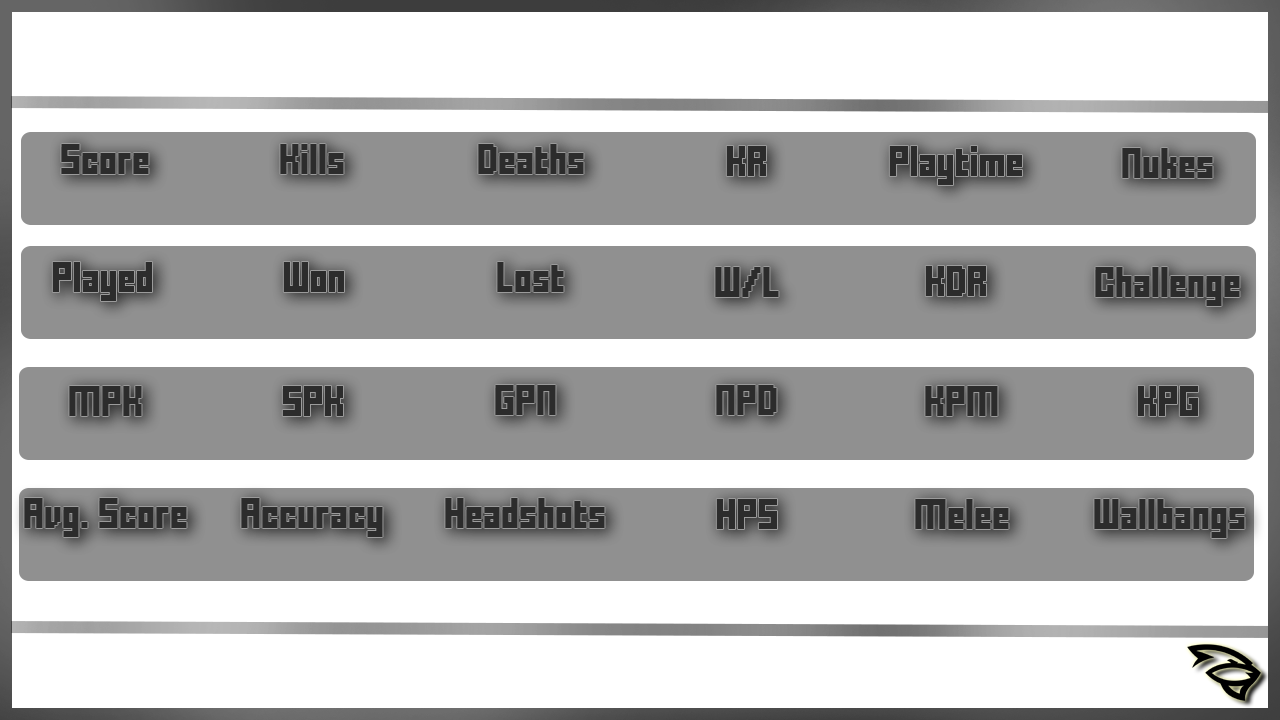
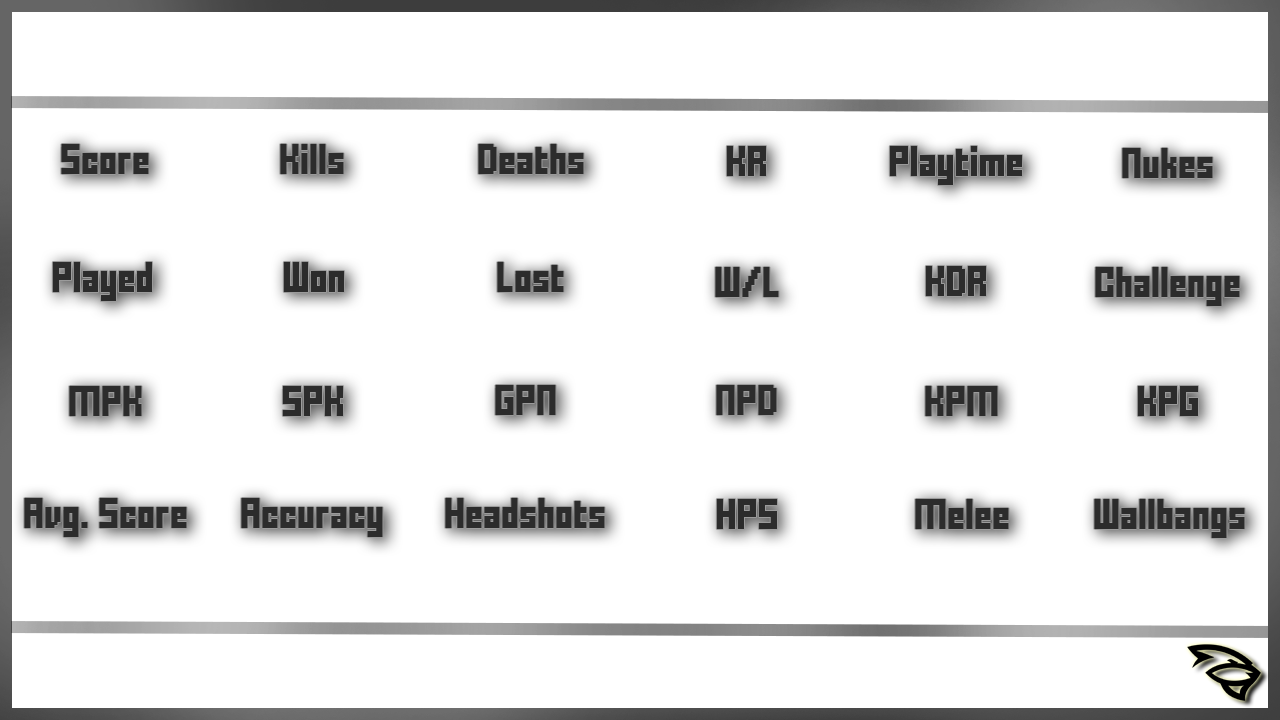
v.cbg

diff --git a/main.py b/main.py
@@ -27,6 +27,9 @@ bot.refr = {}
 bot.links = {}
 bot.data = {}
 bot.userdata = {}
+bot.bgdata = {}
+bot.unsaved = {}
+bot.already = []
 bot.dev = ""
 economyerror = "❌"
 economysuccess = "✅"
@@ -42,7 +45,7 @@ bot.uptime = time.time()
 bot.reqs = 0
 bot.pause = False
 
-@bot.check
+#@bot.check
 async def if_allowed(ctx):
     return await check_channel(ctx.channel.id)
 
@@ -290,6 +293,32 @@ async def spam_protect(userid):
             return 'warn'
     else:
         return 'ok'
+
+async def sendnew(ctx, vntadat):
+    curset = f"1. Headings Color- {vntadat['hd']}\n" \
+             f"2. Stats Color- {vntadat['st']}\n" \
+             f"3. Motto Text- {vntadat['mt']}\n" \
+             f"4. Username Color- {vntadat['us']}"
+    embed = discord.Embed(title="⚙ VNTA Profile Background",
+                          description="Current Settings:\n" \
+                                      f"```less\n{curset}```\n"
+                                      "__Choose the below options to modify the background:__\n\n" \
+                                      "`modify 1` - Change background image\n" \
+                                      "`modify 2` - Change headings color\n" \
+                                      "`modify 3` - Change stats color\n" \
+                                      "`modify 4` - Change background motto\n" \
+                                      "`modify 5` - Change username color",
+                          color=embedcolor)
+    embed.set_image(url="attachment://profile.png")
+    file = await profile(ctx, ign="AwesomeSam", via=True)
+    embed.set_footer(text="Type 'save' to save background\nType 'cancel' to cancel all changes")
+    await ctx.send(embed=embed, file=file)
+
+async def savebgdata():
+    with open("bgdata.json", "w") as f:
+        f.write(json.dumps(bot.bgdata, indent=2))
+    chl = bot.get_channel(854698116255318057)
+    await chl.send(file=discord.File("bgdata.json"))
 
 staffchl = [813447381752348723, 854008993248051230]
 @bot.command()
@@ -576,7 +605,7 @@ async def contract(ctx, *, ign=None):
 
 @bot.command(aliases=["p", "pf"])
 @commands.check(general)
-async def profile(ctx, *, ign=None):
+async def profile(ctx, *, ign=None, via=False):
     if ign is None:
         ign = bot.links.get(str(ctx.author.id))
         if ign is None:
@@ -596,8 +625,19 @@ async def profile(ctx, *, ign=None):
                                       color=error_embed)
                 embed.set_footer(text=f"Bot by {bot.dev} | #vantalizing")
                 return await ctx.reply(embed=embed)
-    data = requests.get(f"https://kr.vercel.app/api/profile?username={ign}")
-    userdata = json.loads(data.text)
+    bgdata = {}
+    found = False
+    for i in bot.bgdata.keys():
+        if i.lower() == ign.lower():
+            bgdata = bot.bgdata[i]
+            found = True
+            break
+    if not found:
+        bgdata = bot.bgdata["vntasam123"]
+
+    #data = requests.get(f"https://kr.vercel.app/api/profile?username={ign}")
+    #userdata = json.loads(data.text)
+    userdata = {'success': True, 'data': {'username': 'AwesomeSam', 'id': 8570737, 'clan': 'VNTA', 'clanRank': 6, 'kills': 82112, 'deaths': 41107, 'wins': 2871, 'score': 9299165, 'level': 91, 'levelPercentage': {'percent': 48.22, 'current': 98053.89, 'max': 203333.33}, 'games': 5830, 'funds': 3533, 'hacker': False, 'verified': False, 'infected': True, 'partner': 1, 'premium': -17955973000, 'premiumName': 'AwesomeSam', 'timePlayed': 1243629476, 'createdAt': '2019-12-19T07:56:22.000Z', 'stats': {'c': 5, 's': 1348599, 'h': 311836, 'c0': 3845230, 'r2': 3815, 'c1': 1753660, 'c2': 1944840, 'mk': 957, 'c5': 563205, 'c4': 91655, 'c8': 145775, 'c7': 66375, 'r3': 20, 'c12': 107410, 'hs': 49704, 'wb': 586, 'flg': 94, 'c9': 75640, 'c11': 336455, 'c6': 37865, 'c3': 131965, 'abR': 1605354754870, 'n': 34, 'chgP': '19:0,0,30,1000', 'anp': 0, 'c13': 274540, 'r4': 18, 'tk': 71, 'fk': 105, 'tmk': 1081, 'r1': 8, 'ast': 1203, 'ls': 741, 'ad': 57, 'spry': 9, 'sad': 1, 'cad': 1}, 'challenge': 19, 'twitch': 'awesomesamaksh', 'elo': 49.58, 'elo2': 0, 'elo4': None, 'followers': 303, 'following': 70, 'region': 2, 'eventCount': None, 'mods': [], 'maps': [{'name': 'Hell_Parkour', 'id': 119179, 'info': {'t': 1}, 'votes': 30, 'verified': None, 'createdAt': '2021-02-03T07:18:50.000Z', 'creator': 'AwesomeSam'}], 'assets': [], 'skins': []}, 'time': 0.169}
     if not userdata["success"]:
         return await ctx.reply(userdata["error"])
     userdata = userdata["data"]
@@ -636,20 +676,51 @@ async def profile(ctx, *, ign=None):
     spk = "{:.2f}".format(score/kills)
     avgscore = int(score/played)
     accuracy = "{:.2f}%".format((hits/shots)*100)
-    statsoverlay = Image.open("bgs/stats.png")
-    bgimage = Image.open("bgs/vnta.png").crop((0, 0, 1280, 720))
+    statsoverlay = Image.new("RGBA", (1280, 720))
+    borders = Image.open("bgs/borders.png")
+
+    if bgdata["ov"]:
+        overlay = Image.open("bgs/overlay.png")
+        borders.paste(overlay, (0, 0), overlay)
+
+    statsoverlay.paste(borders, (0, 0))
+
+    # ============ DRAWING STARTS ==============
+    order = [["Score", "Kills", "Deaths", "KR", "Playtime", "Nukes"],
+             ["Played", "Won", "Lost", "W/L", "KDR", "Challenge"],
+             ["MPK", "SPK", "GPN", "NPD", "KPM", "KPG"],
+             ["Avg. Score", "Accuracy", "Headshots", "HPS", "Melee", "Wallbangs"]]
+    draw = ImageDraw.Draw(statsoverlay)
+    shadow = Image.new("RGBA", statsoverlay.size)
+    draw2 = ImageDraw.Draw(shadow)
+    font = ImageFont.truetype("bgs/font.ttf", 20)
+    font2 = ImageFont.truetype("bgs/font.ttf", 40)
+    font3 = ImageFont.truetype("bgs/font.ttf", 26)
+    font4 = ImageFont.truetype("bgs/font.ttf", 22)
+
+    yloc = 148
+    for row in order:
+        xloc = 105
+        for stat in row:
+            size = font4.getsize(str(stat))[0]
+            draw2.text((xloc - (size / 2), yloc), str(stat), font=font4, fill=(0, 0, 0))
+            xloc += 214
+        yloc += 119
+
+    yloc = 148
+    for row in order:
+        xloc = 105
+        for stat in row:
+            size = font4.getsize(str(stat))[0]
+            draw.text((xloc - (size / 2), yloc), str(stat), font=font4, fill=tuple(bgdata["hd"]))
+            xloc += 214
+        yloc += 119
+    bgimage = Image.open(f"bgs/{bgdata['file']}").resize((1280, 720))
     bgimage = bgimage.convert("RGBA")
     order = [[score, kills, deaths, kr, timeplayed, nukes],
               [played, wins, loses, wl, kdr, challenge],
               [mpk, spk, gpn, npd, kpm, kpg],
               [avgscore, accuracy, headshots, hps, melee, wallbangs]]
-    draw = ImageDraw.Draw(statsoverlay)
-    font = ImageFont.truetype("bgs/font.ttf", 20)
-    font2 = ImageFont.truetype("bgs/font.ttf", 40)
-    font3 = ImageFont.truetype("bgs/font.ttf", 26)
-    shadow = Image.new("RGBA", statsoverlay.size)
-    draw2 = ImageDraw.Draw(shadow)
-
 
     if challenge > 20:
         fill = (255, 43, 43)
@@ -676,7 +747,7 @@ async def profile(ctx, *, ign=None):
             draw2.text((xloc-(size/2), yloc), str(stat), font=font, fill=(0,0,0))
             xloc += 214
         yloc += 119
-    draw2.text((35, 32), str(level), fill=(0,0,0), font=font2)
+    #draw2.text((35, 32), str(level), fill=(0,0,0), font=font2)
 
     shadow = shadow.filter(ImageFilter.GaussianBlur(radius=2))
     shadow = shadow.filter(ImageFilter.GaussianBlur(radius=4))
@@ -686,7 +757,7 @@ async def profile(ctx, *, ign=None):
         xloc = 104
         for stat in row:
             size = font.getsize(str(stat))[0]
-            draw.text((xloc - (size / 2), yloc), str(stat), font=font, fill=(222, 222, 222))
+            draw.text((xloc - (size / 2), yloc), str(stat), font=font, fill=tuple(bgdata["st"]))
             xloc += 214
         yloc += 119
     rank = userdata["clanRank"]
@@ -708,10 +779,9 @@ async def profile(ctx, *, ign=None):
         clancolor = (68, 255, 25)
     elif clan == "DEV":
         clancolor = (25, 191, 255)
-    elif clan == "VNTA":
-        draw.text((960, 655), "#vantalizing", fill=(36, 36, 36), font=font3)
+    draw.text((1173-font3.getsize(bgdata['mt'])[0], 655), bgdata["mt"], fill=(36, 36, 36), font=font3)
     draw.text((35, 32), str(level), fill=fill, font=font2)
-    draw.text((65+font2.getsize(str(level))[0], 32), str(username), fill=(36, 36, 36), font=font2)
+    draw.text((65+font2.getsize(str(level))[0], 32), str(username), fill=tuple(bgdata["us"]), font=font2)
     draw.text((85+font2.getsize(str(level))[0]+font2.getsize(str(username))[0], 32), f"[{clan}]", fill=clancolor, font=font2)
     draw.text((120, 655), user, font=font3, fill=(36, 36, 36))
     dis_logo = Image.open("bgs/discord.png").resize((69, 69))
@@ -725,7 +795,10 @@ async def profile(ctx, *, ign=None):
     image_bytes.seek(0)
     statsoverlay.close()
     bgimage.close()
-    await ctx.send(file=discord.File(image_bytes, filename="profile.png"))
+    if not via:
+        await ctx.send(file=discord.File(image_bytes, filename="profile.png"))
+    else:
+        return discord.File(image_bytes, filename="profile.png")
 
 @bot.command(aliases=["incog"])
 @commands.check(general)
@@ -747,32 +820,110 @@ async def incognito(ctx):
 async def cbg(ctx):
     if not any(allow in [role.id for role in ctx.author.roles] for allow in staff):
         return
-    embed = discord.Embed(title="⚙ VNTA Profile Background",
-                          description="Upload the image from your PC to set as background.\n"
-                                      "**Dont send a link to the image! Attach the file**",
-                          color=embedcolor)
-    embed.set_footer(text="Recommended Image size: 1280x720n\nType 'cancel' to cancel updating")
-    await ctx.send(embed=embed)
+    if "vntasam123" in bot.already:
+        return await ctx.reply("Someone is already editing this background. Please wait")
+    bot.already.append("vntasam123")
+    bot.unsaved["vntasam123"] = bot.bgdata["vntasam123"]
+    await sendnew(ctx, bot.unsaved["vntasam123"])
     def check(msg):
         return msg.author == ctx.author and msg.channel == ctx.channel
     try:
-        msg = await bot.wait_for("message", check=check, timeout=180)
-        try:
-            if msg.content.lower() == "cancel": return
-            image = msg.attachments[0]
-            r = requests.get(image, stream=True)
-            if r.status_code == 200:
-                r.raw.decode_content = True
-                with open("bgs/vnta.png", 'wb') as f:
-                    shutil.copyfileobj(r.raw, f)
-                await ctx.send(f"{economysuccess} Image updated successfully!")
-            else:
-                await ctx.send(f"Error fetching image, Please contact {bot.dev} for help.")
-        except:
-            return await ctx.send("Bot didnt detect any attachments. Make sure you upload the image from your device!\n"
-                                  "Do `v.cbg` to start over")
+        while True:
+            print(bot.bgdata, bot.unsaved)
+            mainmsg = await bot.wait_for("message", check=check, timeout=180)
+            msgc = mainmsg.content.lower()
+            if msgc == "cancel":
+                bot.already.remove("vntasam123")
+                break
+            elif msgc == "save":
+                bot.bgdata["vntasam123"] = bot.unsaved["vntasam123"]
+                await savebgdata()
+                bot.already.remove("vntasam123")
+                await ctx.send(f"{economysuccess} Saved Successfully!")
+            elif msgc == "modify 1":
+                try:
+                    embed = discord.Embed(description="Upload the image from your PC to set as background.\n"
+                                                      "**Dont send a link to the image! Attach the file**",
+                                          color=embedcolor)
+                    embed.set_footer(text="Recommended Size: 1280x720")
+                    await ctx.send(embed=embed)
+
+                    msg = await bot.wait_for("message", check=check, timeout=180)
+                    try:
+                        image = msg.attachments[0]
+                        r = requests.get(image, stream=True)
+                        if r.status_code == 200:
+                            r.raw.decode_content = True
+                            with open("bgs/vnta.png", 'wb') as f:
+                                shutil.copyfileobj(r.raw, f)
+                            await ctx.send(f"{economysuccess} Image updated successfully!")
+                            await sendnew(ctx, bot.unsaved["vntasam123"])
+                        else:
+                            await ctx.send(f"Error fetching image, Please contact {bot.dev} for help.")
+                    except:
+                        await ctx.send("Bot didnt detect any attachments. Make sure you upload the image from your device!")
+                except asyncio.TimeoutError:
+                    pass
+            elif msgc in ["modify 2", "modify 3", "modify 5"]:
+                try:
+                    embed = discord.Embed(description="Enter the `R, G, B` code for the color.\n"
+                                                      "Trouble choosing? [Click Here](https://htmlcolorcodes.com/)\n"
+                                                      "Hex to RGB? [Click Here](https://www.rapidtables.com/convert/color/hex-to-rgb.html)",
+                                          color=embedcolor)
+                    await ctx.send(embed=embed)
+                    try:
+                        msg = await bot.wait_for("message", check=check, timeout=180)
+                        r, g, b = msg.content.replace(" ", "").split(",")
+                        r = int(r)
+                        g = int(g)
+                        b = int(b)
+                        if (r>255 or r<0) or (g>255 or g<0) or (b>255 or b<0): raise ValueError
+
+                        types = {2: "hd", 3: "st", 5: "us"}
+                        print(bot.bgdata)
+                        print(bot.unsaved)
+                        bot.unsaved["vntasam123"][types[int(msgc[-1])]] = [r, g, b]
+                        await ctx.send("Done!")
+                        print()
+                        print(bot.bgdata)
+                        print(bot.unsaved)
+                        await sendnew(ctx, bot.unsaved["vntasam123"])
+                    except:
+                        await ctx.send("Incorrect `R, G, B` codes. Please retry")
+                except asyncio.TimeoutError:
+                    pass
+            elif msgc == "modify 4":
+                try:
+                    embed = discord.Embed(description="Enter the motto for your background. Make sure it is not NSFW type",
+                                          color=embedcolor)
+                    await ctx.send(embed=embed)
+                    try:
+                        msg = await bot.wait_for("message", check=check, timeout=180)
+                        bot.unsaved["vntasam123"]["mt"] = msg.content
+                        await ctx.send("Done!")
+                        await sendnew(ctx, bot.unsaved["vntasam123"])
+                    except:
+                        await ctx.send(f"Unknown error occured. Pleasr contact {bot.dev}")
+                except asyncio.TimeoutError:
+                    pass
     except asyncio.TimeoutError:
         pass
+
+@bot.command()
+@commands.is_owner()
+async def ov(ctx, *, bgname):
+    bgname = bgname.lower()
+    bgdat = bot.bgdata.get(bgname)
+    if bgdat is None:
+        return await ctx.reply(f"Background `{bgname}` not found!")
+    if bgdat["ov"]:
+        bgdat["ov"] = False
+    else:
+        bgdat["ov"] = True
+
+    bot.bgdata[bgname] = bgdat
+    await savebgdata()
+    await ctx.message.add_reaction(economysuccess)
 
 @bot.command()
 @commands.check(general)
@@ -843,10 +994,8 @@ async def ping(ctx):
     ping = "{:.2f}".format(bot.latency*1000)
     await msg.edit(content=f'Pong! `{ping} ms`')
 
-@bot.event
-async def on_connect():
-    print("Connected")
-    await bot.wait_until_ready()
+@bot.command(aliases=["refresh"])
+async def load_data(ctx=None):
     chl = bot.get_channel(854692793276170280)
     msgs = await chl.history(limit=1).flatten()
     bot.refr = json.loads(msgs[0].content)
@@ -859,6 +1008,16 @@ async def on_connect():
     chl = bot.get_channel(856070919033978932)
     msgs = await chl.history(limit=1).flatten()
     bot.userdata = json.loads(requests.get(msgs[0].attachments[0]).text)
+
+    chl = bot.get_channel(854698116255318057)
+    msgs = await chl.history(limit=1).flatten()
+    bot.bgdata = json.loads(requests.get(msgs[0].attachments[0]).text)
+
+@bot.event
+async def on_connect():
+    print("Connected")
+    await bot.wait_until_ready()
+    await load_data()
     print("Ready")
     if not bot.pause:
         asyncio.create_task(auto_update())
